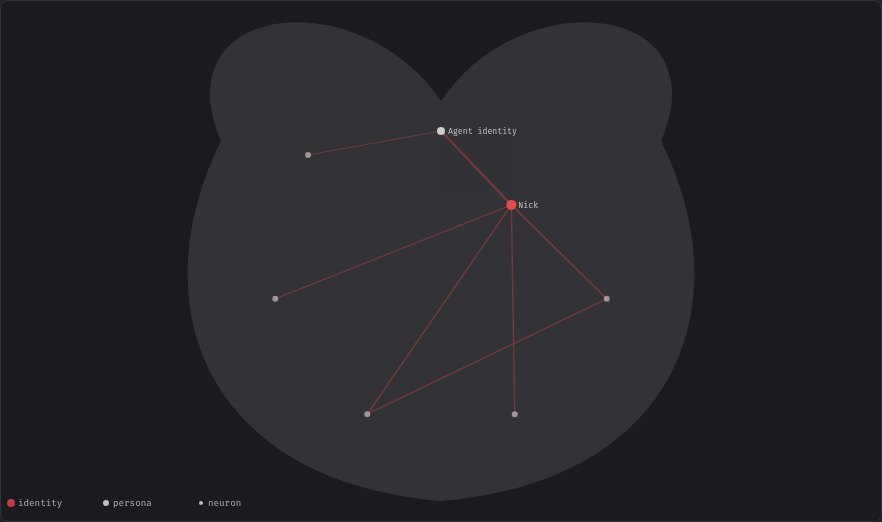
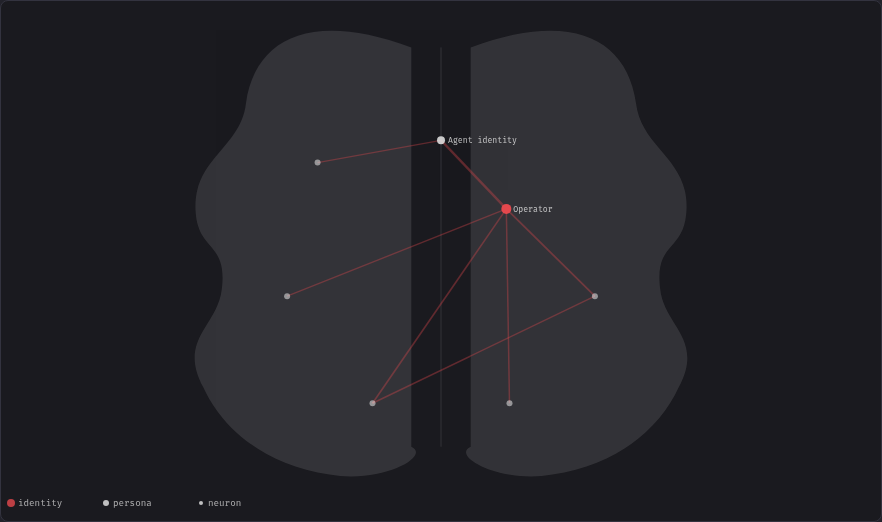
fix(brain): draw a proper two-hemisphere brain silhouette with a visible central fissure
The old silhouette was a single blobby outline that read as a bear. Replace
it with two symmetric cerebral hemispheres (gyri undulations on the outer
edge, inset from the centre line) so the longitudinal fissure shows as a
real gap between the lobes. Also regenerate the PR screenshot from
anonymous mock data — it previously used the user's name and personal
topics (guitar lessons, n8n, YouTube, Patreon) as identity node labels.

diff --git a/static/js/brain.js b/static/js/brain.js
@@ -8,6 +8,44 @@
 //
 // On open: fetch /api/memory-brain/overview (on-request, per-turn state) and draw.
 
+// Top-view brain silhouette: two cerebral hemispheres with gyri undulations
+// along the outer edge, separated by a visible longitudinal fissure down the
+// middle. `s` mirrors the hemisphere (+1 right, -1 left) so both lobes are
+// symmetric. Each lobe is inset from the centre line (MIN_DX) so the fissure
+// reads as a real gap instead of the two lobes merging into one blob.
+const MIN_DX = 0.16
+function brainHemisphere(cx, cy, r, s) {
+  const X = (dx) => cx + r * dx * s
+  const Y = (dy) => cy + r * dy
+  return `
+    M ${X(MIN_DX)} ${Y(-1.15)}
+    C ${X(0.7)} ${Y(-1.35)}, ${X(1.0)} ${Y(-1.2)}, ${X(1.05)} ${Y(-0.85)}
+    C ${X(1.08)} ${Y(-0.6)}, ${X(1.35)} ${Y(-0.55)}, ${X(1.32)} ${Y(-0.25)}
+    C ${X(1.3)} ${Y(-0.05)}, ${X(1.15)} ${Y(-0.1)}, ${X(1.18)} ${Y(0.15)}
+    C ${X(1.2)} ${Y(0.35)}, ${X(1.42)} ${Y(0.42)}, ${X(1.28)} ${Y(0.68)}
+    C ${X(1.18)} ${Y(0.9)}, ${X(0.95)} ${Y(1.1)}, ${X(0.6)} ${Y(1.15)}
+    C ${X(0.32)} ${Y(1.2)}, ${X(0.05)} ${Y(1.05)}, ${X(MIN_DX)} ${Y(1.0)}
+    Z`
+}
+
+function brainShape(cx, cy, r) {
+  const g = document.createElementNS('http://www.w3.org/2000/svg', 'g')
+  g.setAttribute('opacity', '0.12')
+  for (const s of [1, -1]) {
+    const p = document.createElementNS('http://www.w3.org/2000/svg', 'path')
+    p.setAttribute('d', brainHemisphere(cx, cy, r, s))
+    p.setAttribute('fill', 'var(--fg)')
+    g.appendChild(p)
+  }
+  // longitudinal fissure between the hemispheres
+  const mid = document.createElementNS('http://www.w3.org/2000/svg', 'line')
+  mid.setAttribute('x1', cx); mid.setAttribute('y1', cy - r * 1.15)
+  mid.setAttribute('x2', cx); mid.setAttribute('y2', cy + r * 1.0)
+  mid.setAttribute('stroke', 'var(--fg)'); mid.setAttribute('stroke-width', '1')
+  g.appendChild(mid)
+  return g
+}
+
 export function loadBrain(open = false) {
   const el = document.getElementById('assoc-graph-canvas')
   if (!el) return
@@ -21,26 +59,9 @@ export function loadBrain(open = false) {
   svg.setAttribute('height', h)
   svg.setAttribute('viewBox', `0 0 ${w} ${h}`)
 
-  const bg = document.createElementNS('http://www.w3.org/2000/svg', 'g')
-  bg.setAttribute('opacity', '0.12')
-  // simple two-lobe brain path centred in the viewbox
   const cx = w / 2, cy = h / 2
-  const r = Math.min(w, h) / 2.6
-  const brainPath = document.createElementNS('http://www.w3.org/2000/svg', 'path')
-  brainPath.setAttribute('d', `
-    M ${cx - r * 1.1} ${cy - r * 0.6}
-    C ${cx - r * 1.4} ${cy - r * 1.3}, ${cx - r * 0.4} ${cy - r * 1.4}, ${cx} ${cy - r * 0.8}
-    C ${cx + r * 0.4} ${cy - r * 1.4}, ${cx + r * 1.4} ${cy - r * 1.3}, ${cx + r * 1.1} ${cy - r * 0.6}
-    C ${cx + r * 1.5} ${cy + r * 0.2}, ${cx + r * 1.2} ${cy + r * 1.1}, ${cx} ${cy + r * 1.2}
-    C ${cx - r * 1.2} ${cy + r * 1.1}, ${cx - r * 1.5} ${cy + r * 0.2}, ${cx - r * 1.1} ${cy - r * 0.6}
-    Z`)
-  brainPath.setAttribute('fill', 'var(--fg)')
-  // brain midline
-  const mid = document.createElementNS('http://www.w3.org/2000/svg', 'line')
-  mid.setAttribute('x1', cx); mid.setAttribute('y1', cy - r * 1.2)
-  mid.setAttribute('x2', cx); mid.setAttribute('y2', cy + r * 1.1)
-  mid.setAttribute('stroke', 'var(--fg)'); mid.setAttribute('stroke-width', '1')
-  bg.appendChild(brainPath); bg.appendChild(mid)
+  const r = Math.min(w, h) / 2.8
+  const bg = brainShape(cx, cy, r)
   svg.appendChild(bg)
 
   const msg = document.createElementNS('http://www.w3.org/2000/svg', 'text')
@@ -64,19 +85,7 @@ function draw(el, svg, data, w, h, cx, cy, r) {
   // clear the loading message
   svg.innerHTML = ''
   // redraw background
-  const bg = document.createElementNS('http://www.w3.org/2000/svg', 'g')
-  bg.setAttribute('opacity', '0.12')
-  const brainPath = document.createElementNS('http://www.w3.org/2000/svg', 'path')
-  brainPath.setAttribute('d', `
-    M ${cx - r * 1.1} ${cy - r * 0.6}
-    C ${cx - r * 1.4} ${cy - r * 1.3}, ${cx - r * 0.4} ${cy - r * 1.4}, ${cx} ${cy - r * 0.8}
-    C ${cx + r * 0.4} ${cy - r * 1.4}, ${cx + r * 1.4} ${cy - r * 1.3}, ${cx + r * 1.1} ${cy - r * 0.6}
-    C ${cx + r * 1.5} ${cy + r * 0.2}, ${cx + r * 1.2} ${cy + r * 1.1}, ${cx} ${cy + r * 1.2}
-    C ${cx - r * 1.2} ${cy + r * 1.1}, ${cx - r * 1.5} ${cy + r * 0.2}, ${cx - r * 1.1} ${cy - r * 0.6}
-    Z`)
-  brainPath.setAttribute('fill', 'var(--fg)')
-  bg.appendChild(brainPath)
-  svg.appendChild(bg)
+  svg.appendChild(brainShape(cx, cy, r))
 
   const nodes = data.associations?.nodes || []
   const edges = data.associations?.edges || []
